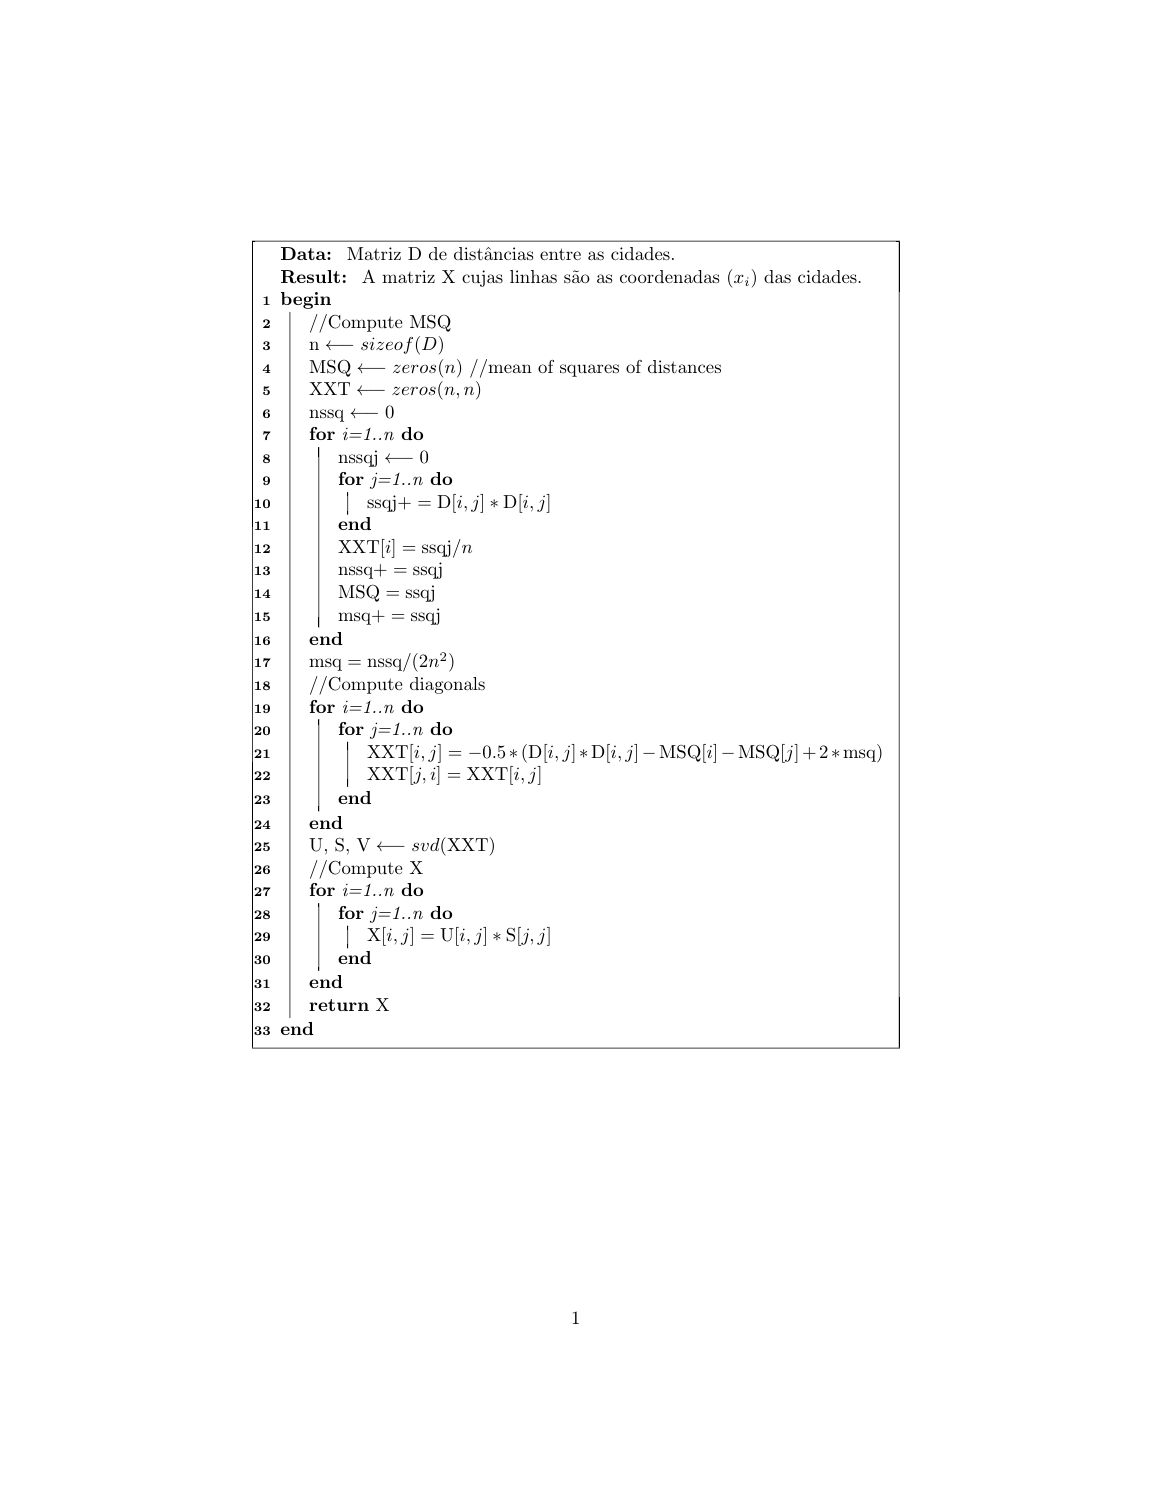
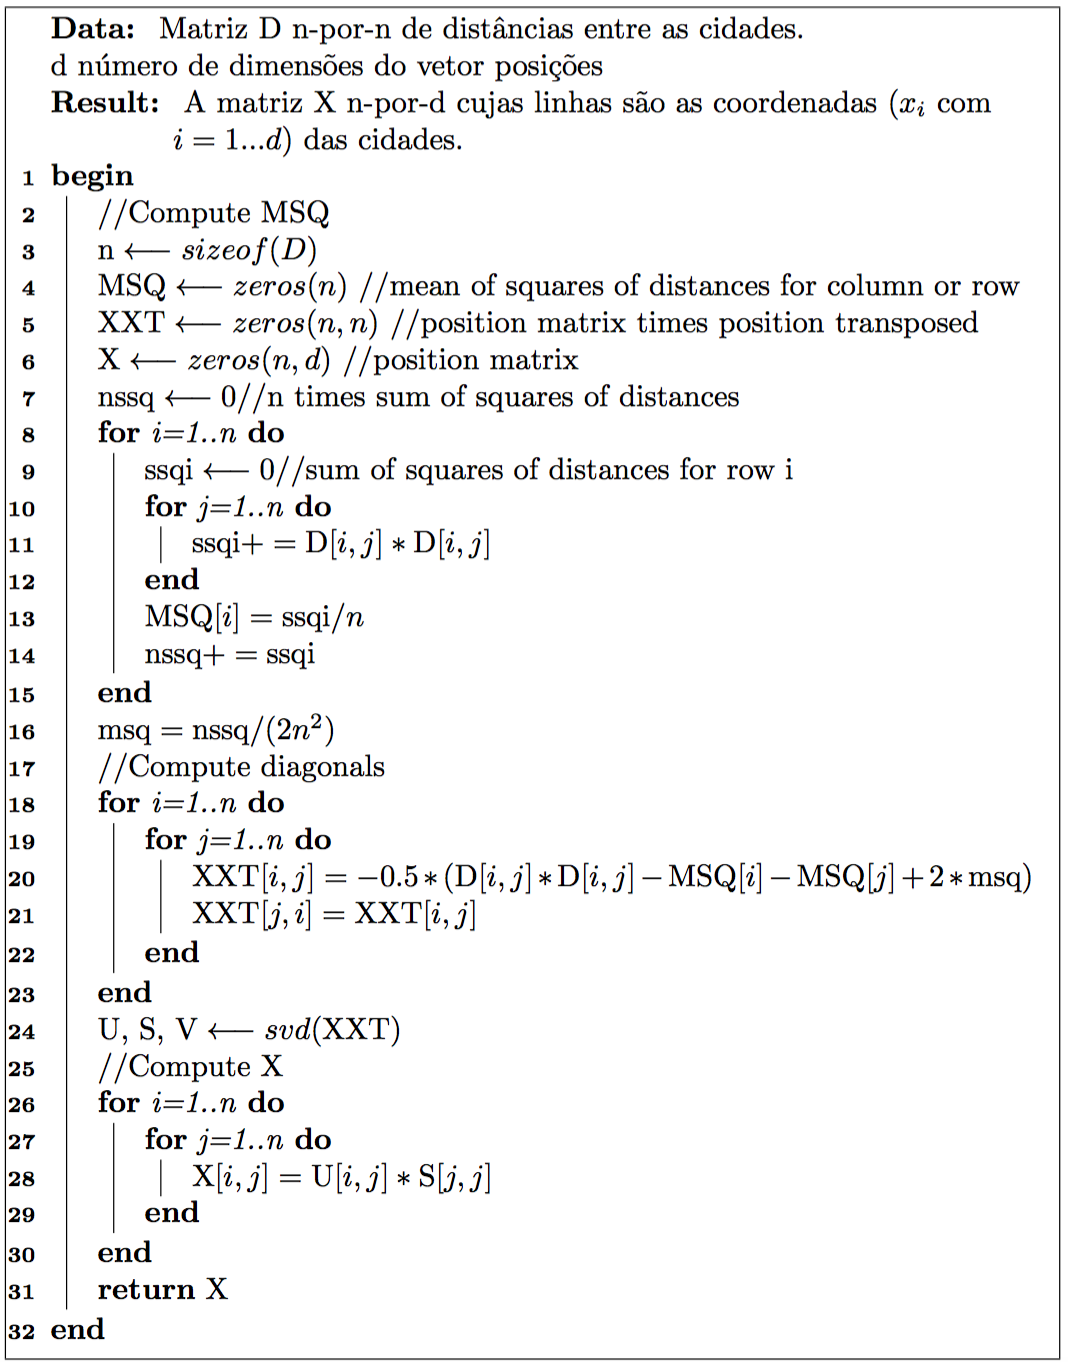
item2: updated algorithm (2)

diff --git a/singular-value-decomposition/item2/tex/algorithm.tex b/singular-value-decomposition/item2/tex/algorithm.tex
@@ -24,8 +24,8 @@ A matriz X n-por-d cujas linhas s\~{a}o as coordenadas ($x_{i}$ com $i=1...d$) d
 //Compute MSQ\;
 $\text{n} \longleftarrow sizeof(D)$\;
 $\text{MSQ} \longleftarrow zeros(n)$ //mean of squares of distances for column or row\;
-
 $\text{XXT} \longleftarrow zeros(n,n)$ //position matrix times position transposed\;
+$\text{X} \longleftarrow zeros(n,d)$ //position matrix\;
 $\text{nssq} \longleftarrow 0$//n times sum of squares of distances\; 
 
 
